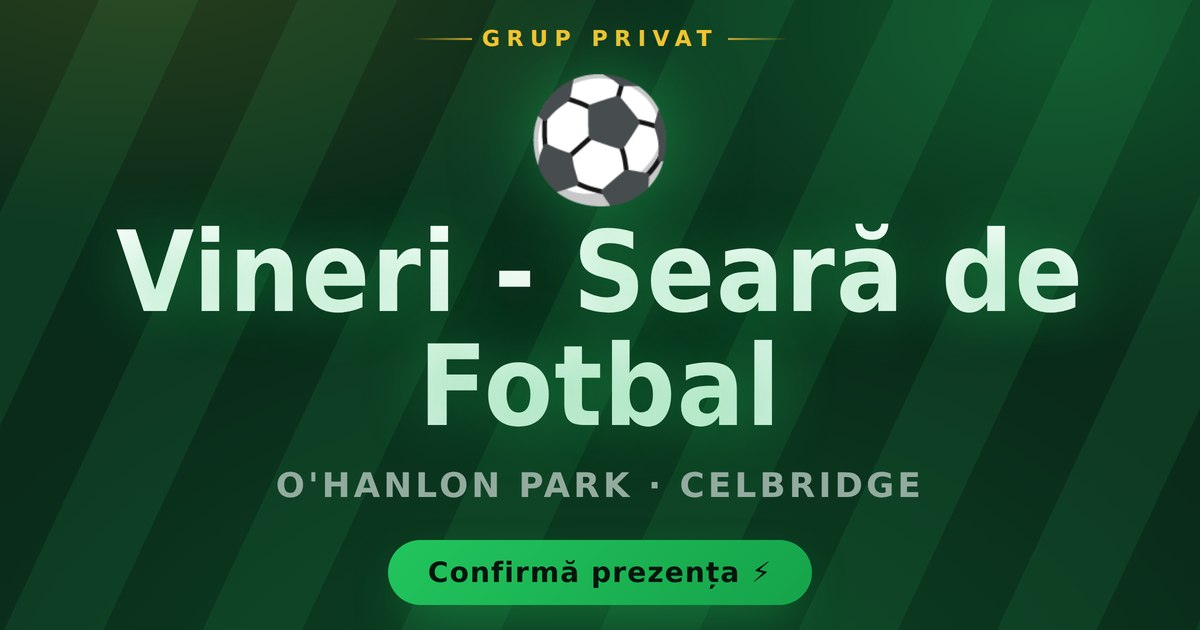
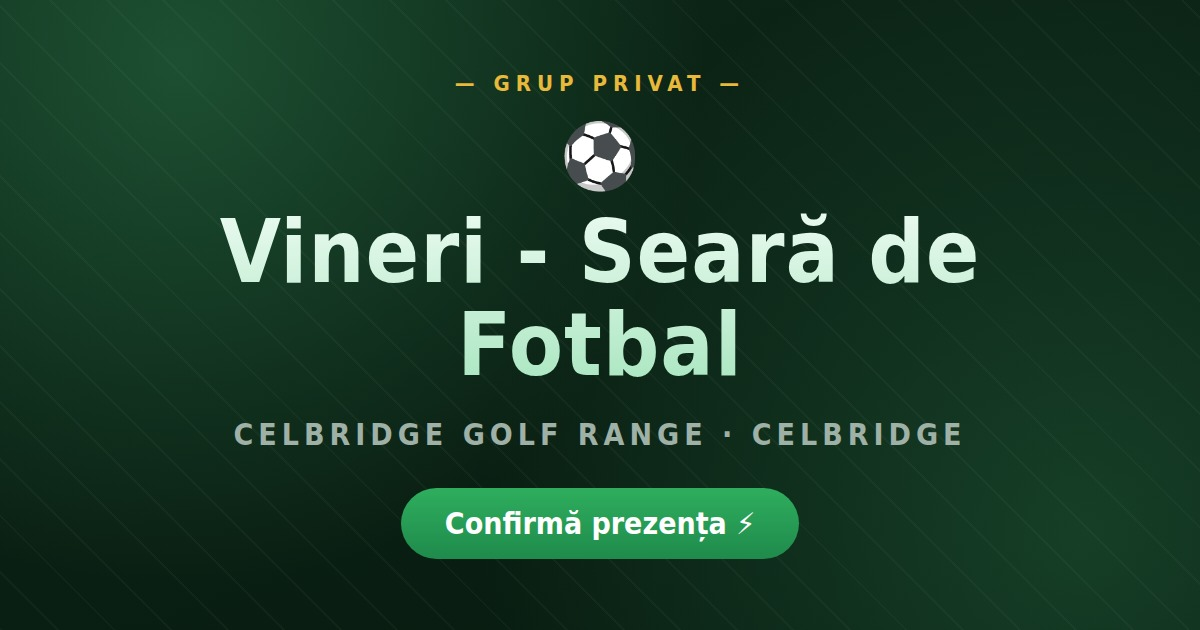
Corecteaza locatia: Celbridge Golf Range (nu O'Hanlon Park)

diff --git a/server.js b/server.js
@@ -32,12 +32,12 @@ const STATIC_FILES = {
 };
 
 const DEFAULT_CONFIG = {
-  location: "O'Hanlon Park, Celbridge",
+  location: 'Celbridge Golf Range, Celbridge, Co. Kildare',
   time: '19:00',
   defaultCapacity: 15,
   revtag: 'sbnn3',
-  lat: 53.3399,
-  lon: -6.5406,
+  lat: 53.33907,
+  lon: -6.50912,
   // Pretul per jucator NU e un camp separat — se calculeaza automat din pragul de pret (cost
   // total / nr. de jucatori al pragului respectiv), NU din cati sunt confirmati acum in
   // saptamana curenta (altfel ar arata sume ciudate cat timp lista se umple, ex. 17€ la 3

diff --git a/index.html b/index.html
@@ -666,7 +666,7 @@
   <header class="top">
     <div class="badge-line">Grup privat</div>
     <h1>Vineri - Seară de Fotbal ⚽</h1>
-    <p>O'Hanlon Park · Celbridge</p>
+    <p>Celbridge Golf Range · Celbridge</p>
   </header>
 
   <div id="loading" class="spinner">Se încarcă…</div>
@@ -753,7 +753,7 @@
         <a href="#" id="not-me-link">Nu sunt eu</a>
       </div>
     </div>
-    <footer class="credit">Vineri - Seară de Fotbal · O'Hanlon Park</footer>
+    <footer class="credit">Vineri - Seară de Fotbal · Celbridge Golf Range</footer>
   </div>
 </div>
 

diff --git a/README.md b/README.md
@@ -1,4 +1,4 @@
-# ⚽ Fotbal Vineri — O'Hanlon Park, Celbridge
+# ⚽ Fotbal Vineri — Celbridge Golf Range, Celbridge
 
 Aplicație simplă pentru gestionarea prezenței la meciurile de fotbal de vineri seara. Jucătorii se înregistrează o singură dată (nume + telefon) și apoi confirmă prezența în fiecare săptămână cu un singur click, direct de pe telefon.
 
